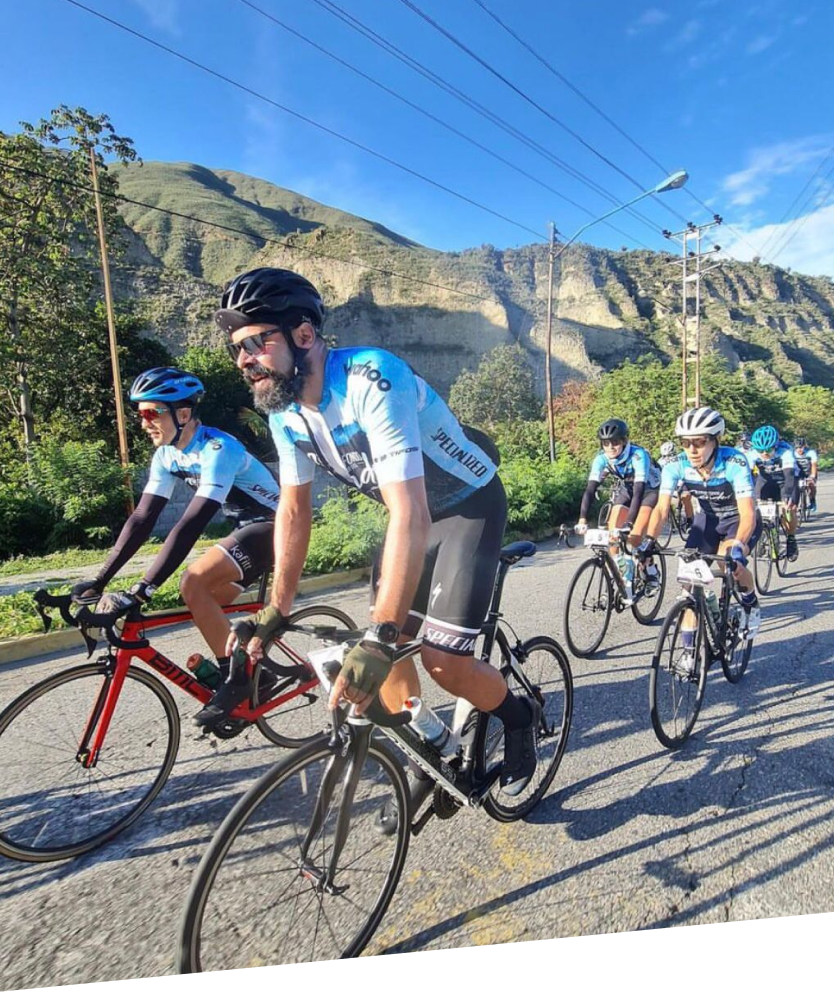
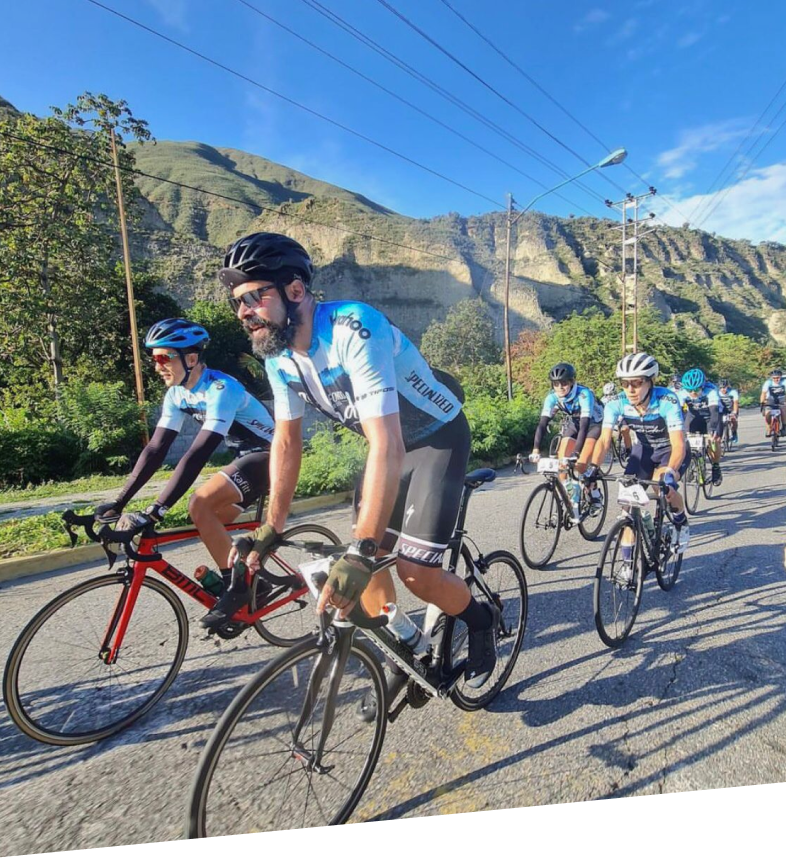
style(responsive): table about, products views

diff --git a/src/routes/productos/[category]/[product]/+page.svelte b/src/routes/productos/[category]/[product]/+page.svelte
@@ -102,9 +102,14 @@
 				id="middle"
 				class="absolute top-0 left-0 w-full h-full flex justify-center items-center bg-#93B7BB/50 gap-2 z-2"
 			>
-				<h4 id="name" class="text-#003B49 font-bold text-lg">{category?.name}</h4>
+				<h4 id="name" class="text-#003B49 font-bold text-lg md:text-3xl">{category?.name}</h4>
 			</div>
-			<img id="image" src={productsImages[getImage(category?.image)]} alt={category?.name} />
+			<img
+				id="image"
+				class="md:min-w-full"
+				src={productsImages[getImage(category?.image)]}
+				alt={category?.name}
+			/>
 		</div>
 		<div
 			id="bottom"
@@ -113,9 +118,11 @@
 	</div>
 
 	<ul class="px-12 pt-18 mb-18 flex flex-col gap-8 -mt-10 bg-#fff w-full min-h-full">
-		<h3 class="text-center text-2xl text-#003B49 first-letter:uppercase">{productName}</h3>
+		<h3 class="text-center text-2xl text-#003B49 first-letter:uppercase md:text-3xl">
+			{productName}
+		</h3>
 		{#each products as product (product.title)}
-			<li class="border-b pb-3 border-b-#DDDDDD last:pb-34">
+			<li class="border-b pb-3 border-b-#DDDDDD last:pb-34 md:mx-auto">
 				<img src={productsImages[getImage(product.image)]} alt={product.title} />
 				<h4 class="text-#003B49 text-lg font-bold mt-4">{product.title}</h4>
 				<button>Ver especificaciones</button>

diff --git a/src/routes/productos/[category]/+page.svelte b/src/routes/productos/[category]/+page.svelte
@@ -94,7 +94,7 @@
 </script>
 
 <section id="categories" class="h-screen bg-#003B49 flex flex-col items-center pt-14">
-	<div>
+	<div class="w-full">
 		<div
 			id="top"
 			class="w-full h-10 [clip-path:polygon(0%_100%,_100%_100%,_73.49%_50.75%)] bg-#93B7BB"
@@ -104,10 +104,11 @@
 				id="middle"
 				class="absolute top-0 left-0 w-full h-full flex justify-center items-center bg-#93B7BB/50 gap-2 z-2"
 			>
-				<h4 id="name" class="text-#003B49 font-bold text-lg">{category?.name}</h4>
+				<h4 id="name" class="text-#003B49 font-bold text-lg md:text-3xl">{category?.name}</h4>
 			</div>
 			<img
 				id="image"
+				class="md:min-w-full"
 				src={productsImages[getImage(category?.name.toLowerCase())]}
 				alt={category?.name}
 			/>
@@ -123,7 +124,7 @@
 		on:clickoutside={() => (active = '')}
 	>
 		{#each category?.items as item}
-			<button class="last:mb-36" on:click|preventDefault={() => handleActive(item.name)}>
+			<button class="last:mb-36 md:mx-auto" on:click|preventDefault={() => handleActive(item.name)}>
 				<li class="relative">
 					<img src={productsImages[getImage(item.image)]} alt={item.name} />
 					{#if active === item.name}

diff --git a/src/lib/components/about/Goals.svelte b/src/lib/components/about/Goals.svelte
@@ -47,15 +47,15 @@
 
 <section id="goals" class="w-full h-screen snap-start relative">
 	<div
-		class="p-8 pt-24 bg-#003B49 h-94vh [clip-path:polygon(0px_0px,_100%_0px,_100%_85.77%,_0%_91.23%)]"
+		class="p-8 pt-24 bg-#003B49 h-94vh [clip-path:polygon(0px_0px,_100%_0px,_100%_85.77%,_0%_91.23%)] md:(pt-32 p-12)"
 		use:inView={{ bottom: 100, top: 100 }}
 		on:enter={enterAnimation}
 	>
 		<ul>
 			{#each info.content as item}
 				<li class="mb-4">
-					<h4 class="mb-2 text-xl text-#E3D268">{item.title}</h4>
-					<p class="text-xs text-#ddd">{item.description}</p>
+					<h4 class="mb-2 text-xl text-#E3D268 md:text-2xl">{item.title}</h4>
+					<p class="text-xs text-#ddd md:(text-sm max-w-90%)">{item.description}</p>
 				</li>
 			{/each}
 		</ul>

diff --git a/src/routes/productos/+page.svelte b/src/routes/productos/+page.svelte
@@ -93,11 +93,11 @@
 </script>
 
 <section id="productCategories" class="h-screen bg-#003B49 flex flex-col items-center pt-28 p-8">
-	<h3 class="text-2xl text-#E3D268">{data.content.title}</h3>
+	<h3 class="text-2xl text-#E3D268 md:text-3xl">{data.content.title}</h3>
 	<ul class="px-6 flex flex-col gap-8 mt-8" use:clickOutside on:clickoutside={() => (active = '')}>
 		{#each data.content.categories as category (category.name)}
 			<button on:click|preventDefault={() => handleActive(category.name.toLowerCase())}>
-				<li id={category.name.toLowerCase()} class="relative">
+				<li id={category.name.toLowerCase()} class="relative md:(max-w-80% mx-auto)">
 					{#if active === category.name.toLowerCase()}
 						<div
 							id="top"

diff --git a/src/lib/components/about/Philosophy.svelte b/src/lib/components/about/Philosophy.svelte
@@ -57,9 +57,9 @@
 	on:enter={enterAnimation}
 >
 	<div
-		class="p-8 pt-24 bg-#55555A h-94vh [clip-path:polygon(0px_0px,_100%_0px,_100%_85.77%,_0%_91.23%)]"
+		class="p-8 pt-24 bg-#55555A h-94vh [clip-path:polygon(0px_0px,_100%_0px,_100%_85.77%,_0%_91.23%)] md:(pt-32 p-12)"
 	>
-		<h3 class="mb-4 text-3xl text-#ACC37E">{topic.title}</h3>
-		<p class="text-sm text-#ddd">{@html topic.description}</p>
+		<h3 class="mb-4 text-3xl text-#ACC37E md:text-4xl">{topic.title}</h3>
+		<p class="text-sm text-#ddd md:(text-base max-w-90%)">{@html topic.description}</p>
 	</div>
 </section>

diff --git a/src/lib/components/about/History.svelte b/src/lib/components/about/History.svelte
@@ -65,8 +65,8 @@
 	on:enter={enterAnimation}
 	on:exit={exitAnimation}
 >
-	<div class="p-8 pt-24 bg-#003B49 h-94vh">
-		<h3 class="mb-4 text-3xl text-#E3D268">{topic.title}</h3>
-		<p class="text-sm text-#ddd">{@html topic.description}</p>
+	<div class="p-8 pt-24 bg-#003B49 h-94vh md:(pt-32 p-12)">
+		<h3 class="mb-4 text-3xl text-#E3D268 md:text-4xl">{topic.title}</h3>
+		<p class="text-sm text-#ddd md:(text-base max-w-90%)">{@html topic.description}</p>
 	</div>
 </section>

diff --git a/src/lib/components/about/FirstImg.svelte b/src/lib/components/about/FirstImg.svelte
@@ -49,7 +49,7 @@
 
 <section bind:this={section} class="w-full h-screen snap-start relative" transition:fade>
 	<div id="firstImg" class="bg-#003B49 h-84vh">
-		<img class="h-full object-cover" src={image} alt="Ciclistas" />
+		<img class="h-full object-cover md:(min-w-full)" src={image} alt="Ciclistas" />
 	</div>
 	<div
 		id="firstImgFill"

diff --git a/src/lib/components/about/SecondImg.svelte b/src/lib/components/about/SecondImg.svelte
@@ -50,7 +50,7 @@
 	on:enter={enterAnimation}
 >
 	<div id="secondImg" class="h-84vh">
-		<img class="h-full object-cover" src={image} alt="Ciclista" />
+		<img class="h-full object-cover md:(min-w-full object-top)" src={image} alt="Ciclista" />
 	</div>
 	<div
 		id="secondImgFill"

diff --git a/src/lib/components/about/ThirdImg.svelte b/src/lib/components/about/ThirdImg.svelte
@@ -50,7 +50,7 @@
 	on:enter={enterAnimation}
 >
 	<div id="thirdImg" class="h-84vh">
-		<img class="h-full object-cover" src={image} alt="Ciclista" />
+		<img class="h-full object-cover md:(min-w-full)" src={image} alt="Ciclista" />
 	</div>
 	<div
 		id="thirdImgFill"
